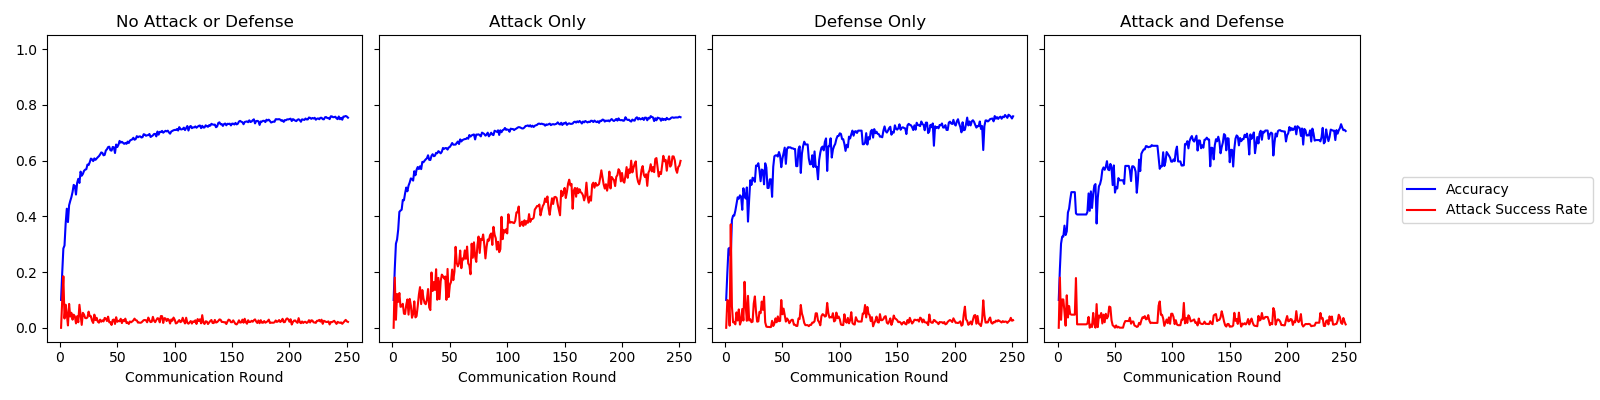
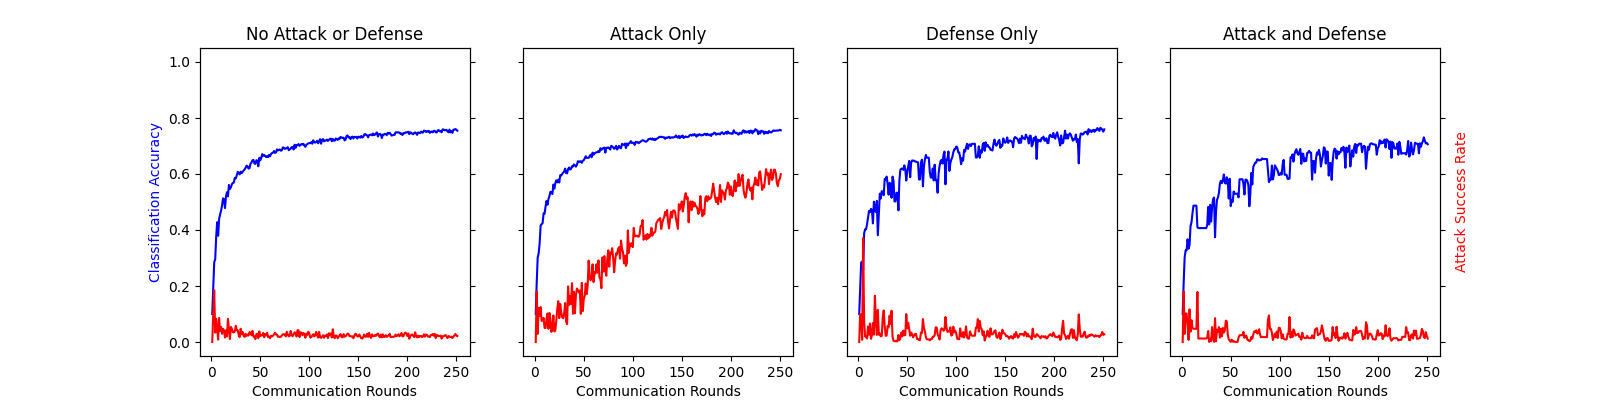
updated figures for init numpy out exps

diff --git a/article/99_visuals/experiment_figures.py b/article/99_visuals/experiment_figures.py
@@ -85,7 +85,7 @@ def plot_scaling(data_val, data_user, d_rounds, path):
     plt.xlabel('Communication Round')
     plt.xlim(1, d_rounds)
 
-    plt.title('Entropy Scaled Threshold Over Rounds')
+    plt.title('Entropy-Based Threshold Scaling')
     plt.plot(data_val_r, benign_upper, '--b')
     plt.plot(data_val_r, benign_lower, '--b')
     plt.plot(data_val_r, data_val_max_thresh, '-r')
@@ -141,7 +141,7 @@ def plot_threshold(data_val, data_user, d_rounds, path, n_malicious):
     fig1, (ax1, ax2) = plt.subplots(ncols=2, sharey=True, figsize=(8, 4))
 
     # visual - benign
-    ax1.set_title('Threshold vs. Benign Over Rounds')
+    ax1.set_title('Threshold vs. Benign')
     ax1.set_ylim(-0.05, 1.05)
     ax1.set_xlabel('Communication Round')
     ax1.set_xlim(1, d_rounds)
@@ -156,7 +156,7 @@ def plot_threshold(data_val, data_user, d_rounds, path, n_malicious):
     ])
 
     # visual - malicious
-    ax2.set_title('Threshold vs. Malicious Over Rounds')
+    ax2.set_title('Threshold vs. Malicious')
     ax2.set_ylim(-0.05, 1.05)
     ax2.set_xlabel('Communication Round')
     ax2.set_xlim(1, d_rounds)
@@ -256,7 +256,8 @@ def main():
 
 
     """ Global Accuracy """
-    fig, axarr = plt.subplots(ncols=4, sharey=True, figsize=(16, 4))
+    fig, axarr = plt.subplots(ncols=4, sharey=True, sharex=True, figsize=(16, 4))
+
     for index in range(len(titles)):
 
         # import files
@@ -275,15 +276,20 @@ def main():
         # global acc
         plt.sca(axarr[index])
         plt.title(titles[index])
+        plt.xlabel('Communication Rounds')
         plt.plot(range(1, len(temp_global) + 1), temp_global[:, 1], '-b')
         plt.plot(range(1, len(temp_global) + 1), temp_global[:, 2], '-r')
         plt.ylim(-0.05, 1.05)
-        plt.xlabel('Communication Round')
 
+        copy = axarr[index].twinx()
+        copy.set_ylim(-0.05, 1.05)
+        copy.set_yticklabels([])
 
-    fig.legend(labels=['Accuracy', 'Attack Success Rate'], loc=7)
-    fig.tight_layout()
-    fig.subplots_adjust(right=0.85)
+        if index == 0:
+            axarr[0].set_ylabel('Classification Accuracy', c='b')
+
+        if (index + 1) == len(titles):
+            copy.set_ylabel('Attack Success Rate', c='r')
 
     plt.savefig(
         os.path.join(path, 'visuals', 'accuracy.png')
